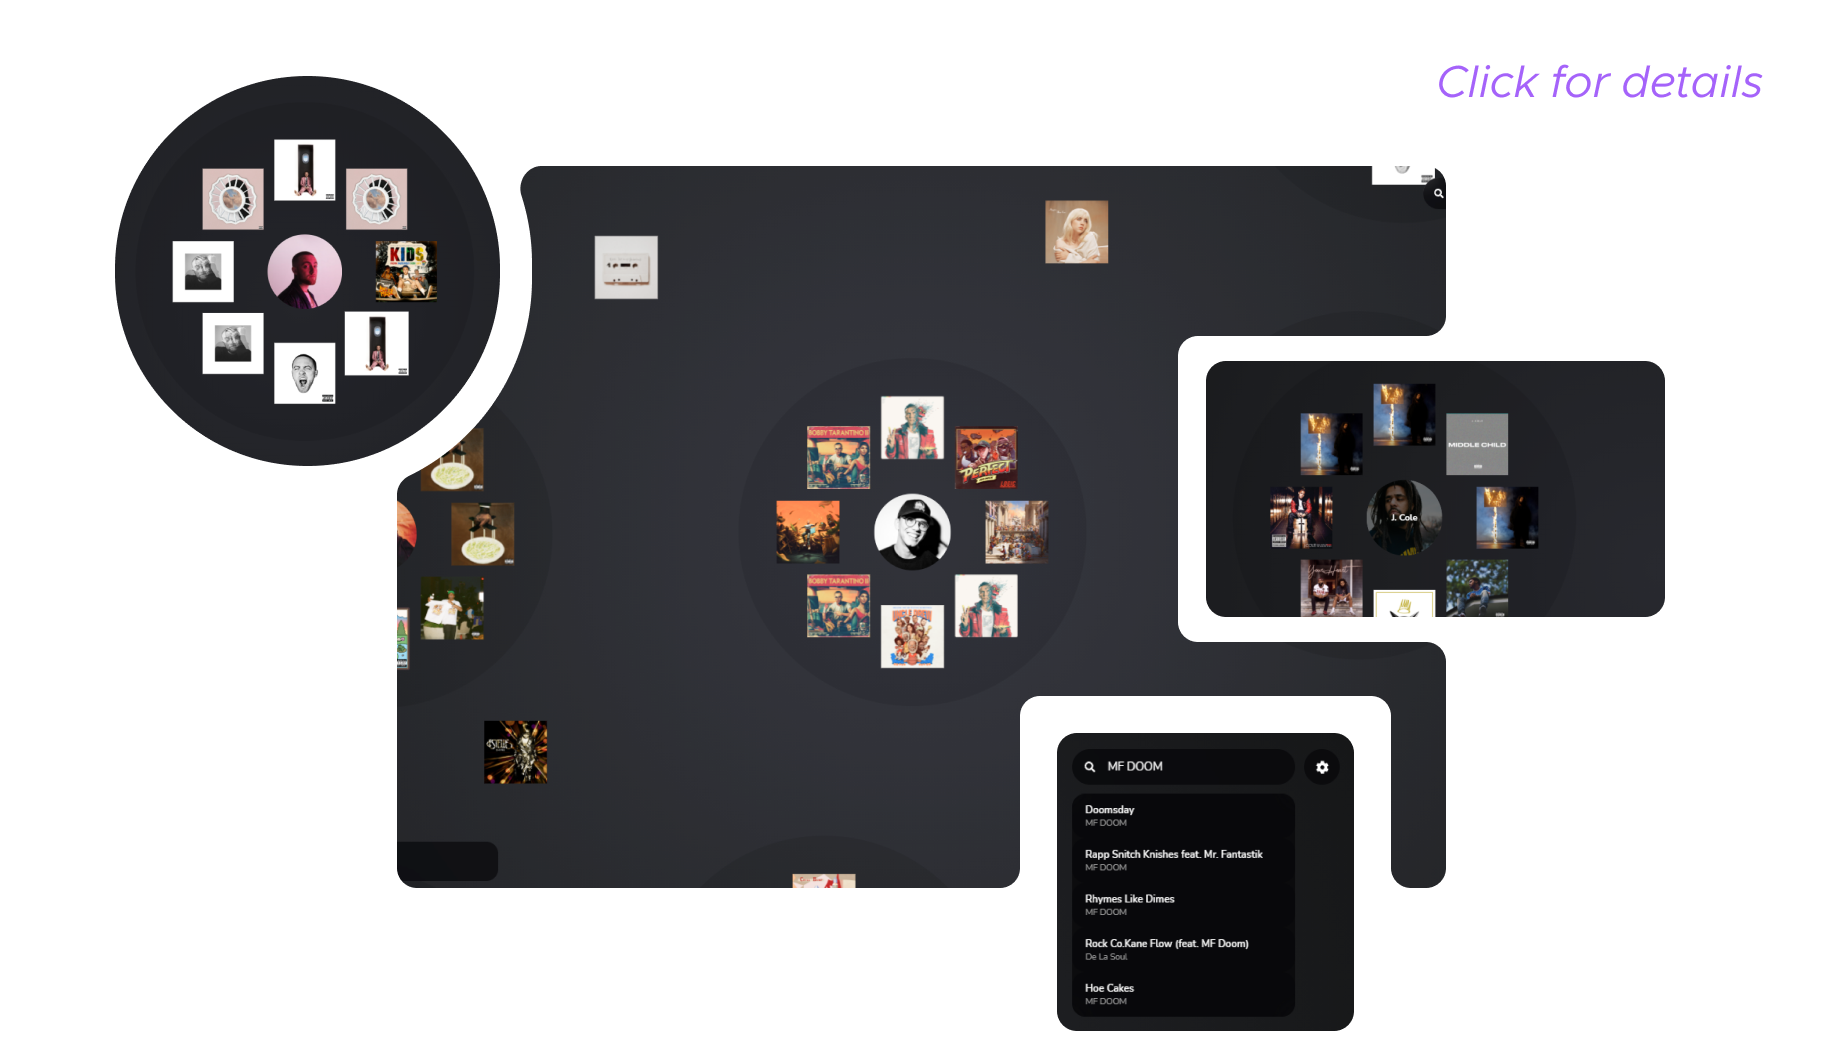
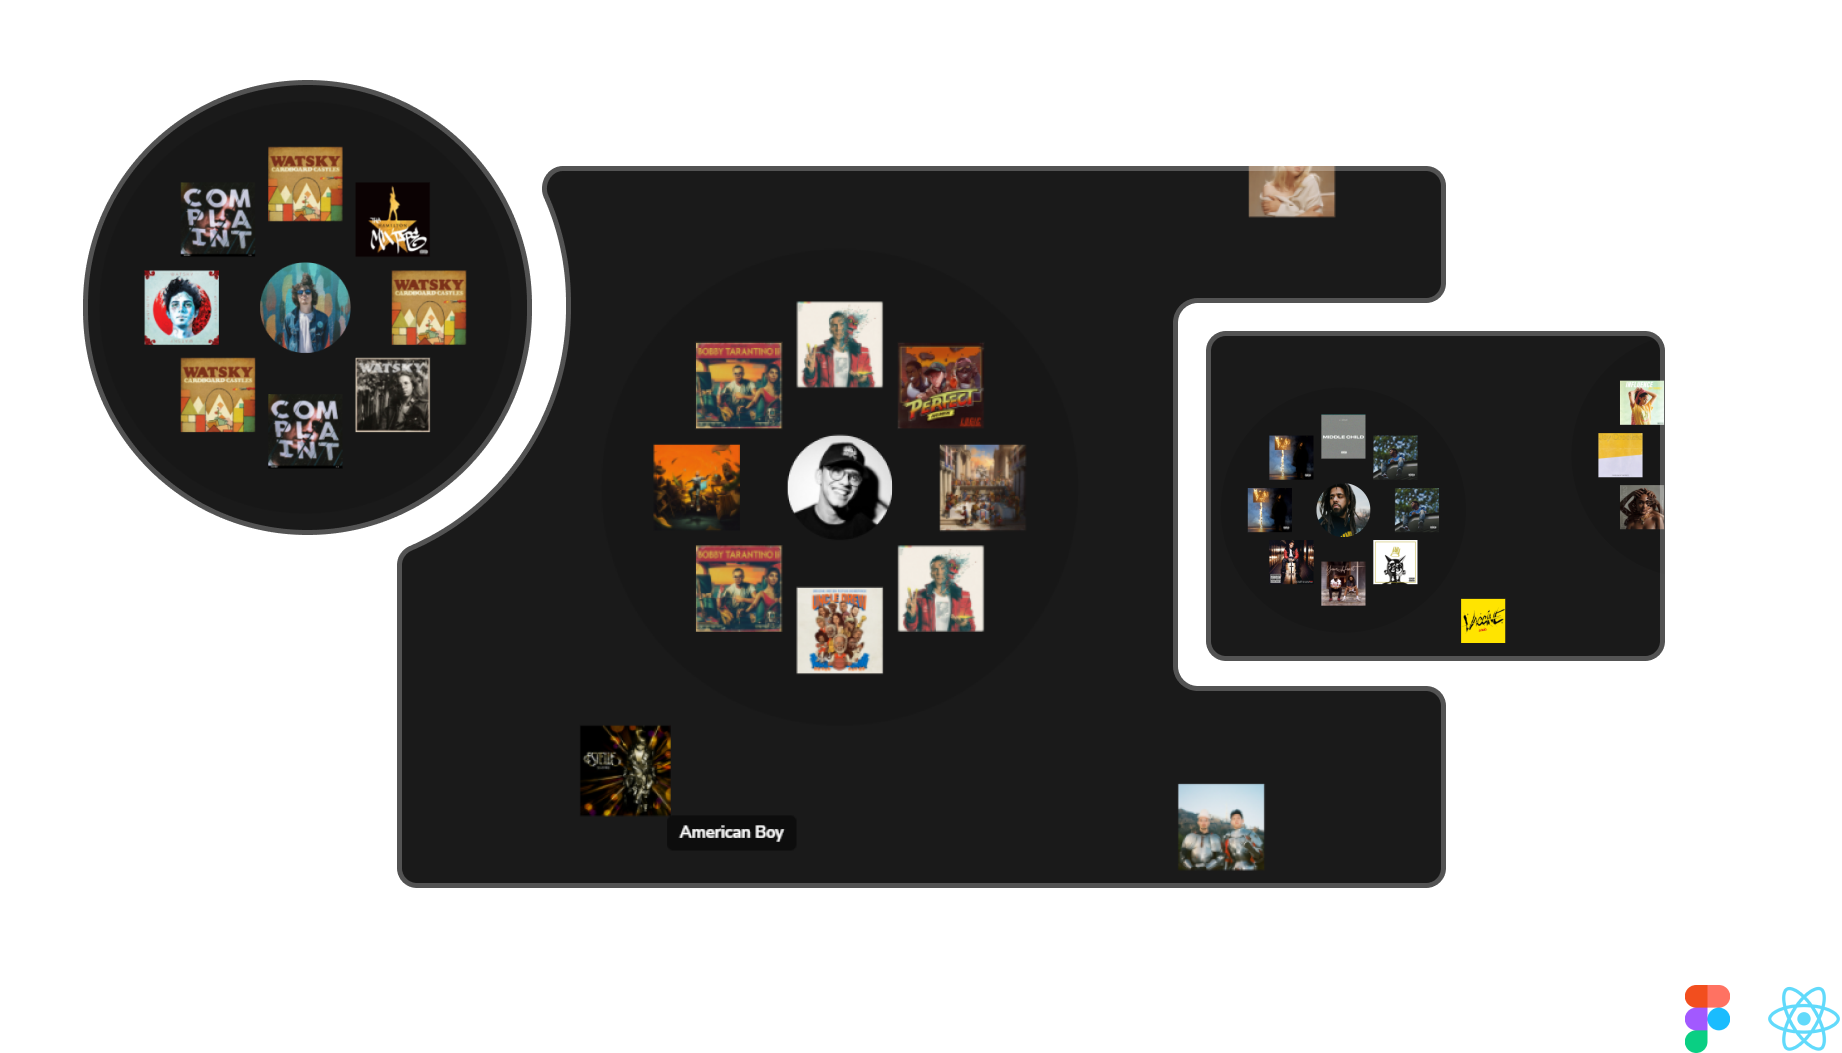
completed thumbnails for projects with links

diff --git a/src/components/Scene.js b/src/components/Scene.js
@@ -12,6 +12,9 @@ import Plane from './Plane';
 import Emit from '../assets/planes/emit.png';
 import ShelterSitemap from '../assets/planes/shelterSitemap.png';
 import InteractiveRecommendations from '../assets/planes/interactiveRecommendations.png';
+import StreamingApp from '../assets/planes/streamingApp.png';
+import Portfolio from '../assets/planes/portfolio.png';
+import Other from '../assets/planes/other.png';
 
 
 const ORBIT_CONTROLS = false
@@ -64,7 +67,7 @@ function RimLight({ brightness, color }) {
 export default function Scene({ setShowHeader, setShowFooter, setScrollProgress }) {
 
   // const START_Y_ROCKET = -50 // amount the rocket is translated on y at the start
-  const START_Y_ROCKET = -15 // amount the rocket is translated on y at the start
+  const START_Y_ROCKET = -20 // amount the rocket is translated on y at the start
   const END_Y_ROCKET = -1 // final y position of the rocket
   const START_Y_PLANE = 0 // amount the planes are translated on y at the start
 
@@ -78,21 +81,21 @@ export default function Scene({ setShowHeader, setShowFooter, setScrollProgress 
     null,
     {
       title: "Interactive Recommendations",
-      tags: ["React", "University Project", "Interactive Prototype"],
+      tags: ["React", "University Project", "Interactive Data Viz"],
       link: "https://beryl-chemistry-021.notion.site/Interactive-Recommendations-15af3dbdef224d978478d042c68ba5a4",
       image: InteractiveRecommendations,
     },
     {
       title: "Streaming App",
-      tags: ["UI/UX", "React Native", "University Project", "WIP"],
+      tags: ["UI/UX", "React Native", "University Project"],
       link: "https://beryl-chemistry-021.notion.site/Music-App-de41e45b6f294dbdbba316c098dc29cf",
-      image: Emit,
+      image: StreamingApp,
     },
     {
       title: "Portfolio Website",
       tags: ["UI/UX", "React", "Three.js"],
       link: "https://beryl-chemistry-021.notion.site/Portfolio-Website-f0ea1ccd06654429a5435408400ad857",
-      image: Emit,
+      image: Portfolio,
     },
     {
       title: "Animal Shelter Sitemap",
@@ -102,9 +105,9 @@ export default function Scene({ setShowHeader, setShowFooter, setScrollProgress 
     },
     {
       title: "Other Projects",
-      tags: ["UI/UX", "Blender", "Python", "..."],
+      tags: ["UI/UX", "Freelancing", "Open Source", "..."],
       link: "https://beryl-chemistry-021.notion.site/Other-Projects-e85abdbaacd64db88f4fe19ded20eb5b",
-      image: Emit,
+      image: Other,
     },
   ]
 

diff --git a/src/components/Plane.js b/src/components/Plane.js
@@ -22,11 +22,12 @@ export default function Plane({x=0, y=0, z=0, rot=0, opacity=1, data=null}) {
 
   const [hoveringPlane, setHoveringPlane] = useState(false)
 
-  const { textPos, tagPos, textOpac, tagOpac } = useSpring({
+  const { textPos, tagPos, clickPos, textOpac, tagOpac } = useSpring({
     textPos: showText ? [-1.7, -0.4, 0.3] : [1.5, -0.4, 0.3],
-    tagPos: showText ? [-1.7, -0.65, 0.3] : [2.5, -0.65, 0.3],
+    tagPos: showText ? [-1.7, -0.6, 0.3] : [2.5, -0.6, 0.3],
+    clickPos: showText ? [-1.7, -0.8, 0.3] : [3, -0.8, 0.3],
     textOpac: showText ? 1 : 0,
-    tagOpac: showText ? 1 : 0,
+    tagOpac: showText ? 0.5 : 0,
     delay: 300
   })
 
@@ -60,6 +61,8 @@ export default function Plane({x=0, y=0, z=0, rot=0, opacity=1, data=null}) {
           // side={THREE.DoubleSide}
           transparent={true}
           map={img}
+          emissiveMap={img}
+          emissiveIntensity={1}
         />
       </animated.mesh>
       <AnimatedText
@@ -76,8 +79,17 @@ export default function Plane({x=0, y=0, z=0, rot=0, opacity=1, data=null}) {
         strokeColor="white"
         font={SubTitleFont}
         anchorX="left"
-        color="#FF630B"
+        // color="#FF630B"
         fontSize={0.11} >{data.tags.map(tag => `[${tag}] `)}</AnimatedText>
+      <AnimatedText
+        position={clickPos}
+        fillOpacity={textOpac}
+        strokeOpacity={0}
+        strokeColor="white"
+        font={SubTitleFont}
+        anchorX="left"
+        color="#4719FC"
+        fontSize={0.08} >Click for details</AnimatedText>
     </group>
   )
 }

diff --git a/src/App.js b/src/App.js
@@ -117,7 +117,7 @@ export default function App() {
         })} />
       </animated.div>
 
-      <p className="wipWarning">👷This site is still WIP!</p>
+      <p className="wipWarning">👷Site under construction!</p>
       
       <animated.div style={{opacity:headerOpacity}} className={"headerContainer"} ref={headerRef}>
         <Header/>
